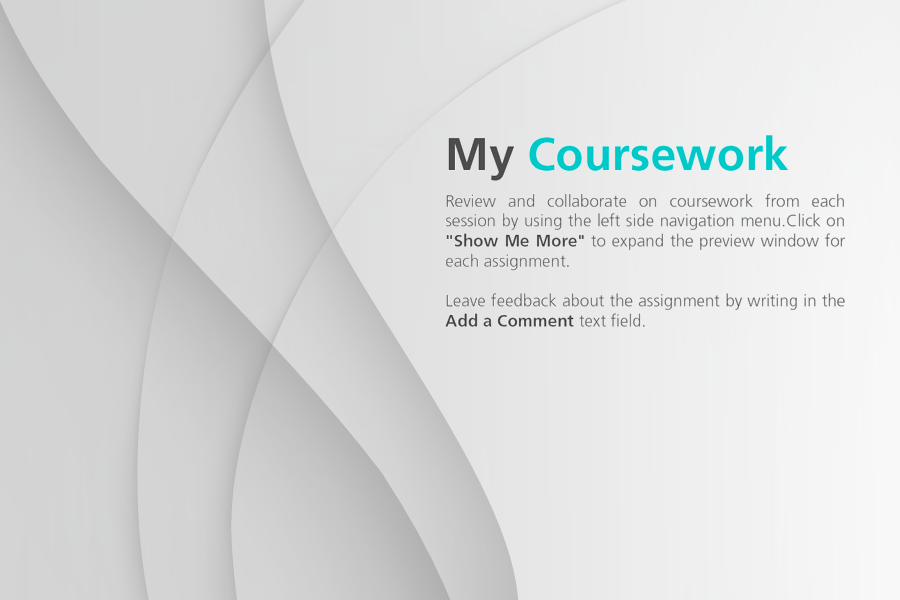
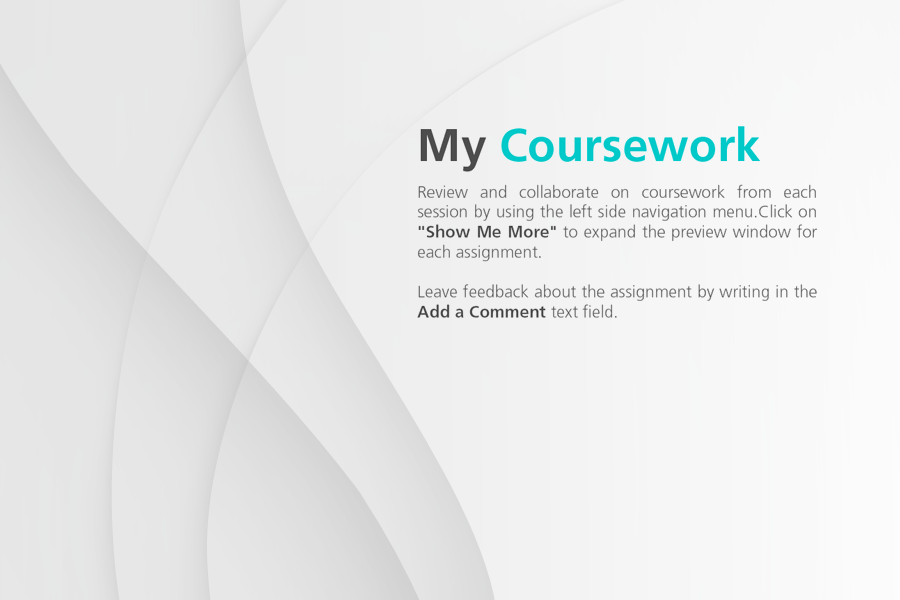
ORA modify a bug, updating portfolio images and css

diff --git a/lms/templates/courseware/courseware.html b/lms/templates/courseware/courseware.html
@@ -20,6 +20,7 @@
 <!--@date:2013-11-02-->
 <style type="text/css" media="screen">
   #btn-dashboard{display:none;}
+  [class^="icon-"], [class*=" icon-"] {font-family: "FontAwesome" !important;}
 </style>
 <!--@end-->
 

diff --git a/common/lib/xmodule/xmodule/open_ended_grading_classes/self_assessment_module.py b/common/lib/xmodule/xmodule/open_ended_grading_classes/self_assessment_module.py
@@ -134,7 +134,7 @@ class SelfAssessmentModule(openendedchild.OpenEndedChild):
         rubric_dict = rubric_renderer.render_rubric(self.child_rubric)
         success = rubric_dict['success']
         rubric_html = rubric_dict['html']
-        if rubric_html.index("Have you completed this task?")>0:
+        if rubric_html.find("Have you completed this task?")>0:
             rubric_html = rubric_html.replace("Have you completed this task?","Is your response ready to send to your portfolio?")
         if self.accept_file_upload:
             rubric_html = rubric_html.replace("Is your response ready to send to your portfolio?","Is your assignment ready to send to your portfolio?")
